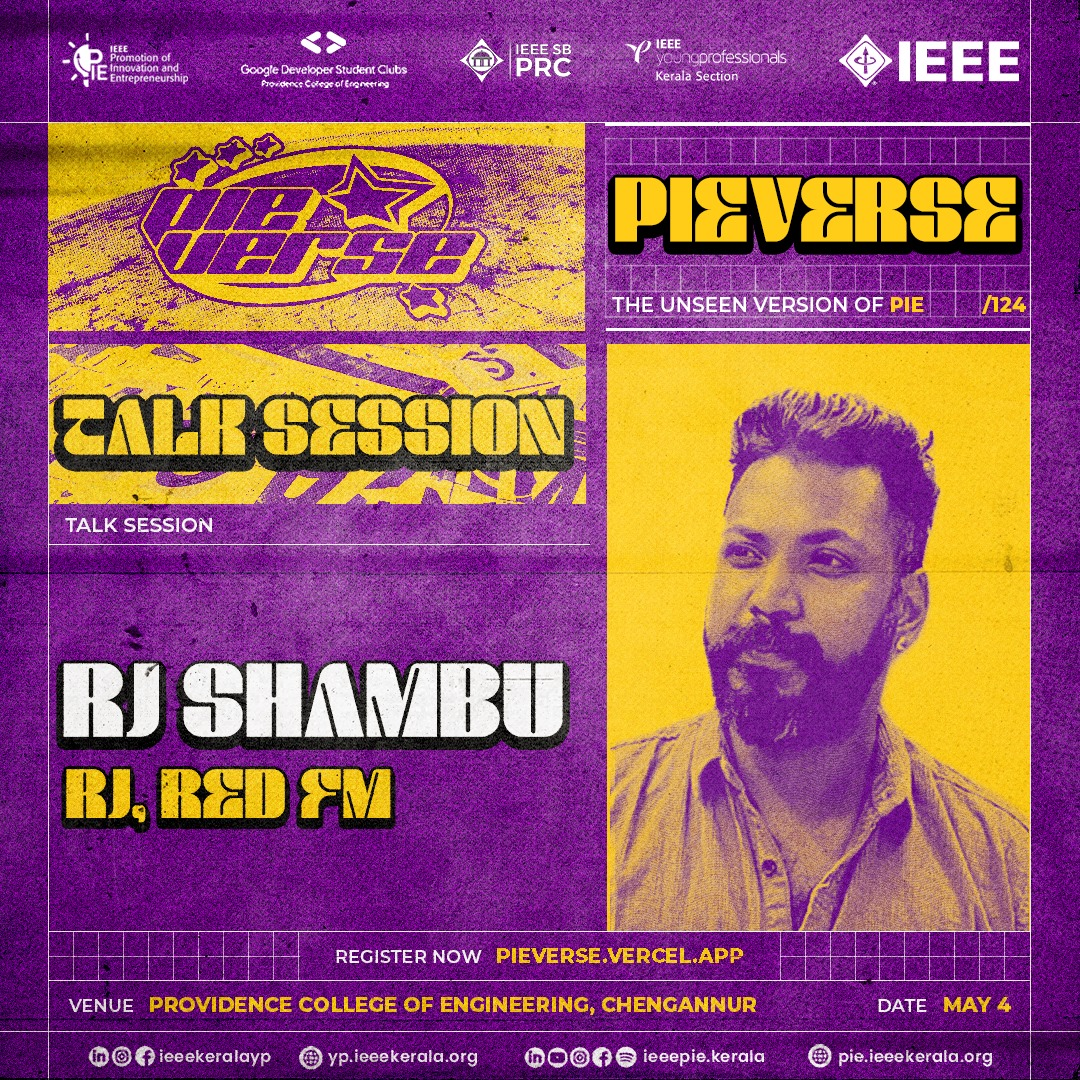
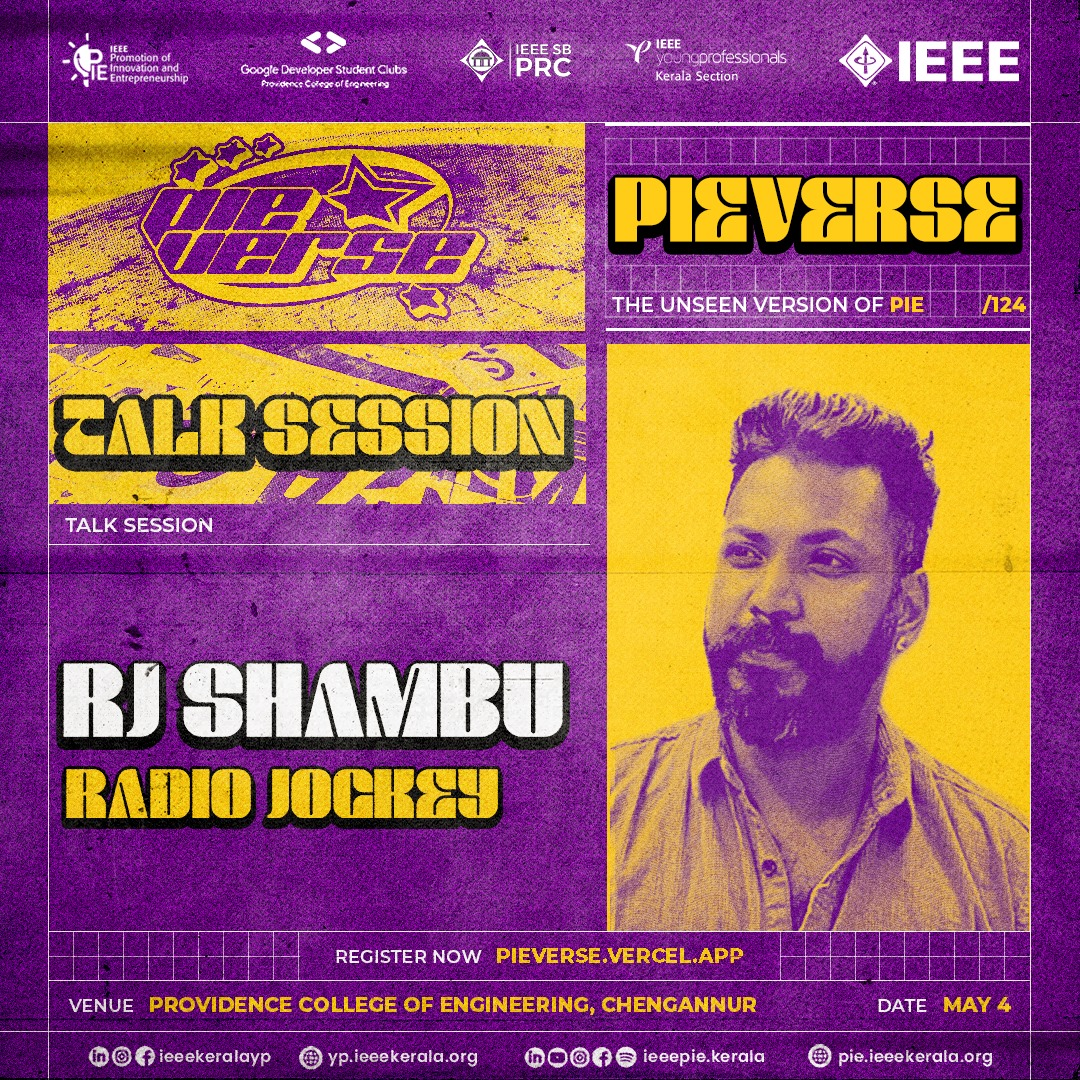
posters added

Changed region(s): [[0.0917, 0.7028, 0.4889, 0.7944]]

diff --git a/components/Pages/Speakers.jsx b/components/Pages/Speakers.jsx
@@ -33,7 +33,7 @@ const Speakers = () => {
             />
             <div className="w-full flex flex-col justify-center items-center h-20 bg-violet-950/50 absolute bottom-0 left-0">
               <h1 className="font-bold text-2xl text-white">RJ Shambu</h1>
-              <h2 className=" text-zinc-300">RJ at Red FM</h2>
+              <h2 className=" text-zinc-300">Radio Jockey</h2>
             </div>
           </div>
           <div className="size-72 bg-slate-300">

diff --git a/components/Pages/Posters.jsx b/components/Pages/Posters.jsx
@@ -9,7 +9,7 @@ const Posters = () => {
     "/assets/posters/poster3.jpg",
     "/assets/posters/poster4.jpg",
     "/assets/posters/poster5.jpg",
-    "/assets/posters/poster3.jpg",
+    "/assets/posters/poster6.jpg",
   ];
 
   return (
